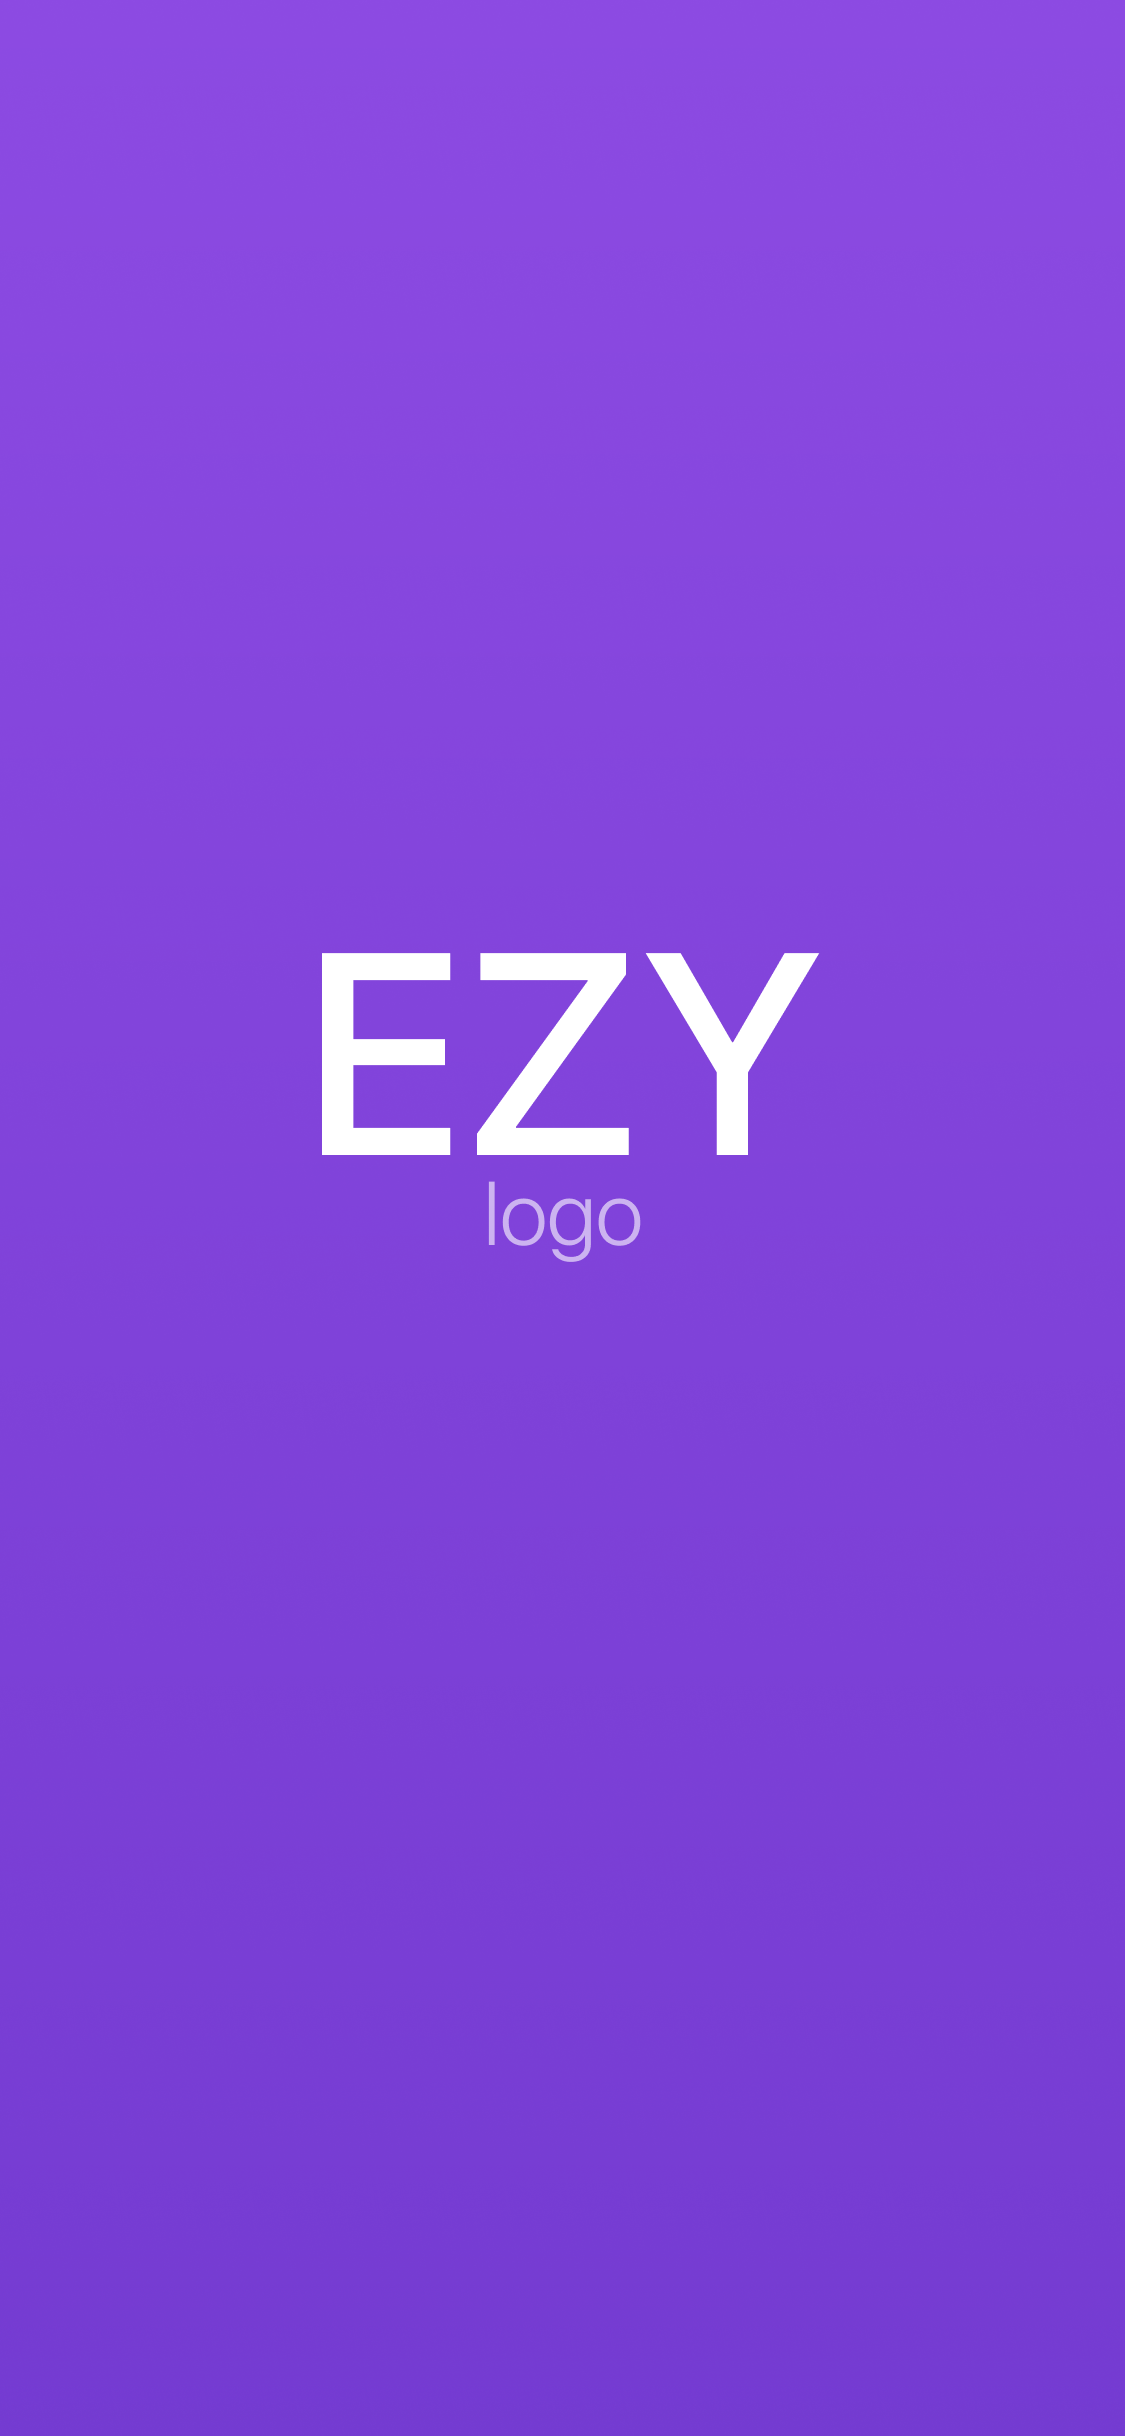
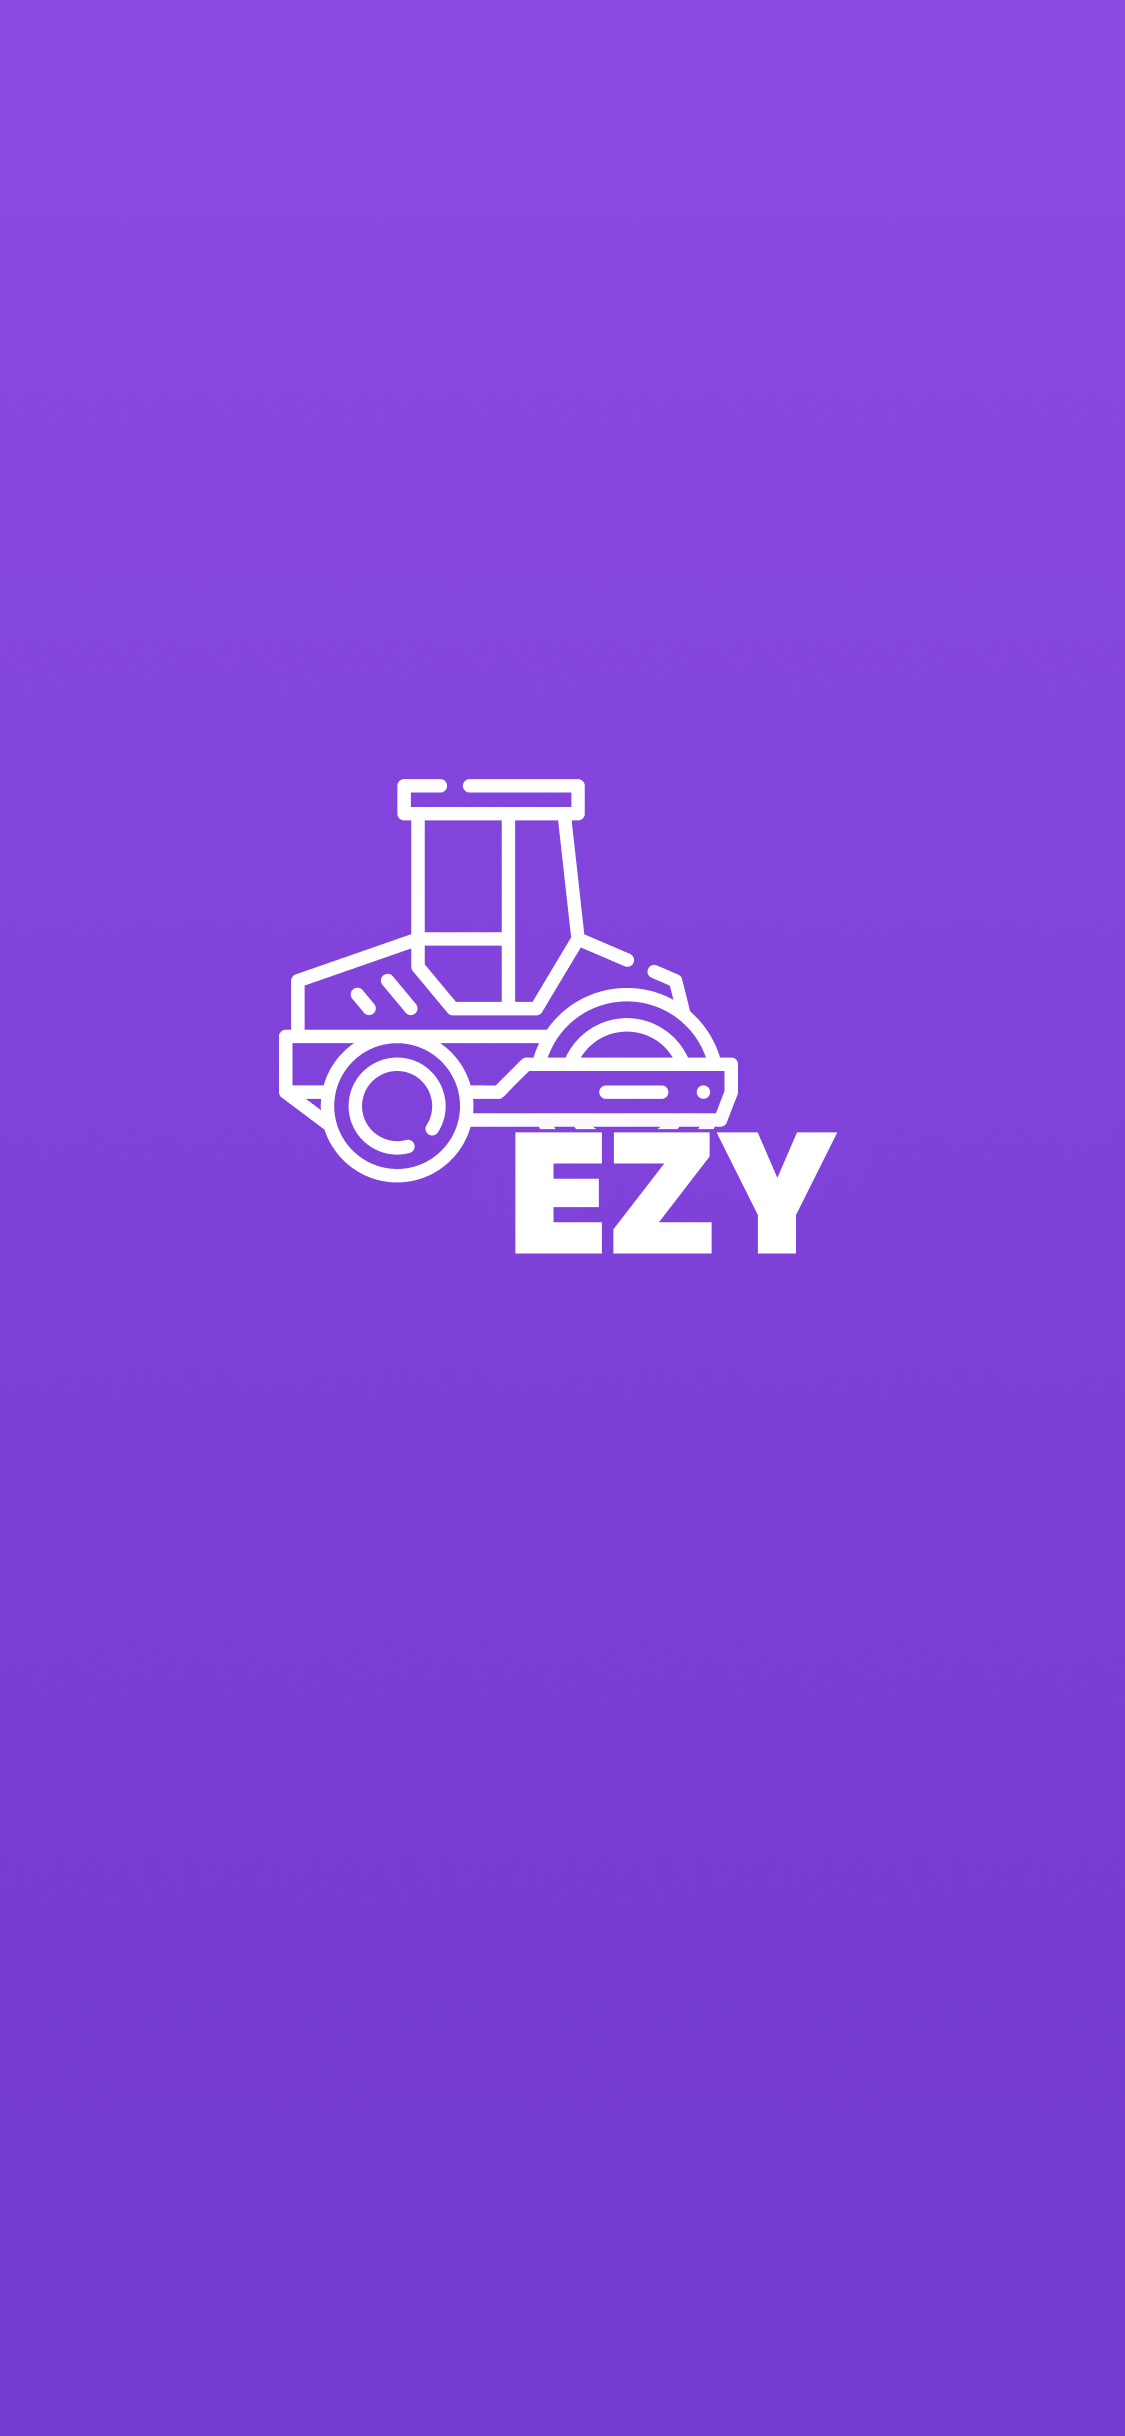
welcome screen added

Changed region(s): [[0.2489, 0.312, 0.7467, 0.5304]]

diff --git a/lib/main.dart b/lib/main.dart
@@ -1,12 +1,6 @@
-import 'package:ezy_app/core_data/ui/common_widgets/drawer_widget.dart';
-import 'package:ezy_app/core_data/ui/theme/app_colors.dart';
 import 'package:flutter/material.dart';
-import 'package:flutter/src/widgets/framework.dart';
-import 'package:pin_code_fields/pin_code_fields.dart';
 
-import 'core_data/ui/common_widgets/back_gorund_widget.dart';
-import 'core_data/ui/common_widgets/custom_textfield_widget.dart';
-import 'core_data/ui/common_widgets/driver_drawer_widget.dart';
+import 'features/welcome_screen/welcome_screen.dart';
 
 void main(List<String> args) {
   runApp(const MyApp());
@@ -19,90 +13,7 @@ class MyApp extends StatelessWidget {
   Widget build(BuildContext context) {
     return MaterialApp(
       theme: ThemeData(fontFamily: 'SFProDisplay'),
-      home: const HomePage(),
-    );
-  }
-}
-
-class HomePage extends StatefulWidget {
-  const HomePage({Key? key}) : super(key: key);
-
-  @override
-  State<HomePage> createState() => _HomePageState();
-}
-
-class _HomePageState extends State<HomePage> {
-  TextEditingController textEditingController = TextEditingController();
-  String currentText = "";
-
-  @override
-  Widget build(BuildContext context) {
-    return Scaffold(
-      resizeToAvoidBottomInset: false,
-      drawer: 
-      // DrawerWidget(),
-       DriverDrawerWidget(),
-      appBar: AppBar(
-        // title: const Text('KindaCode'),
-      ),
-      body: BackGroundWidget(
-        child: Center(
-          child: Padding(
-            padding: const EdgeInsets.all(16.0),
-            child: Column(
-              mainAxisAlignment: MainAxisAlignment.center,
-              children:  [
-                TextFieldWidget(
-                  label: 'Имя',
-                ),
-                // CircleAvatarWidget(),
-               
-              ],
-            ),
-          ),
-        ),
-      ),
-      // body: Padding(
-      //   padding: const EdgeInsets.all(30),
-      //   child: Center(
-      //     child: PinCodeTextField(
-      //       keyboardType: TextInputType.number,
-      //       length: 4,
-      //       obscureText: false,
-      //       animationType: AnimationType.fade,
-      //       pinTheme: PinTheme(
-      //         activeColor: AppColors.pinTextFieldBorderColor,
-      //         inactiveColor: AppColors.pinTextFieldBorderColor,
-      //         selectedColor: AppColors.pinTextFieldBorderColor,
-      //         borderWidth: 1,
-      //         shape: PinCodeFieldShape.box,
-      //         borderRadius: BorderRadius.circular(10),
-      //         fieldHeight: 66,
-      //         fieldWidth: 66,
-      //         inactiveFillColor: AppColors.white,
-      //         selectedFillColor: AppColors.white,
-      //         activeFillColor: AppColors.white,
-      //       ),
-      //       animationDuration: const Duration(milliseconds: 300),
-      //       backgroundColor: AppColors.lightGrey,
-      //       enableActiveFill: true,
-      //       controller: textEditingController,
-      //       onCompleted: (v) {
-      //         debugPrint("Completed");
-      //       },
-      //       onChanged: (value) {
-      //         debugPrint(value);
-      //         setState(() {
-      //           currentText = value;
-      //         });
-      //       },
-      //       beforeTextPaste: (text) {
-      //         return true;
-      //       },
-      //       appContext: context,
-      //     ),
-      //   ),
-      // ),
+      home: const WelcomeScreen(),
     );
   }
 }

diff --git a/lib/features/welcome_screen/welcome_screen.dart b/lib/features/welcome_screen/welcome_screen.dart
@@ -1,0 +1,73 @@
+import 'package:ezy_app/core_data/ui/common_widgets/app_button.dart';
+import 'package:ezy_app/core_data/ui/common_widgets/back_gorund_widget.dart';
+import 'package:ezy_app/core_data/ui/common_widgets/custom_sliding_toggle.dart';
+import 'package:ezy_app/core_data/ui/theme/app_colors.dart';
+import 'package:ezy_app/core_data/ui/theme/app_fonts.dart';
+import 'package:ezy_app/features/customers_screen/registration_screen/registration_screen.dart';
+import 'package:ezy_app/resources/resources.dart';
+import 'package:flutter/material.dart';
+import 'package:flutter/src/widgets/framework.dart';
+import 'package:flutter/src/widgets/placeholder.dart';
+
+class WelcomeScreen extends StatelessWidget {
+  const WelcomeScreen({super.key});
+
+  @override
+  Widget build(BuildContext context) {
+    return Scaffold(
+      body: BackGroundWidget(
+        child: Padding(
+          padding: const EdgeInsets.all(16.0),
+          child: Column(
+            mainAxisAlignment: MainAxisAlignment.center,
+            children: [
+              CustomSlidingToggle(
+                leftLabel: 'Заказчик',
+                rightLabel: 'Исполнитель',
+                onChange: (val) {},
+              ),
+              const SizedBox(height: 100),
+              Image.asset(Images.logo, height: 150),
+              const SizedBox(height: 111),
+              Text(
+                'Добро пожаловать!',
+                style: AppFonts.w700s30.copyWith(color: AppColors.white),
+              ),
+              const SizedBox(height: 20),
+              Text(
+                'Приветствуем вас на площадке аренды \nстроительной техники',
+                style: AppFonts.w400s16.copyWith(
+                  color: AppColors.white,
+                ),
+                textAlign: TextAlign.center,
+              ),
+              const SizedBox(height: 75),
+              AppButton(
+                title: 'Регистрация',
+                onPressed: () {
+                  Navigator.push(
+                    context,
+                    MaterialPageRoute(
+                      builder: (context) => const CustomersRegistrationScreen(),
+                    ),
+                  );
+                },
+              ),
+              const SizedBox(height: 25),
+              TextButton(
+                onPressed: () {},
+                child: Text(
+                  'У меня уже есть аккаунт',
+                  style: AppFonts.w400s16.copyWith(
+                    color: AppColors.white,
+                  ),
+                ),
+              ),
+              const SizedBox(height: 100)
+            ],
+          ),
+        ),
+      ),
+    );
+  }
+}

diff --git a/lib/features/customers_screen/registration_screen/registration_screen.dart b/lib/features/customers_screen/registration_screen/registration_screen.dart
@@ -1,0 +1,26 @@
+import 'package:ezy_app/core_data/ui/common_widgets/back_gorund_widget.dart';
+import 'package:flutter/material.dart';
+import 'package:flutter/src/widgets/framework.dart';
+import 'package:flutter/src/widgets/placeholder.dart';
+
+class CustomersRegistrationScreen extends StatelessWidget {
+  const CustomersRegistrationScreen({super.key});
+
+  @override
+  Widget build(BuildContext context) {
+    return Scaffold(
+      body: BackGroundWidget(
+        child: Padding(
+          padding: const EdgeInsets.all(16.0),
+          child: Column(
+            children: [
+              Row(
+                children: [],
+              )
+            ],
+          ),
+        ),
+      ),
+    );
+  }
+}

diff --git a/lib/core_data/ui/common_widgets/back_gorund_widget.dart b/lib/core_data/ui/common_widgets/back_gorund_widget.dart
@@ -13,6 +13,7 @@ class BackGroundWidget extends StatelessWidget {
   @override
   Widget build(BuildContext context) {
     return Container(
+      width: double.infinity,
       height: MediaQuery.of(context).size.height,
       decoration: const BoxDecoration(
         gradient: LinearGradient(

diff --git a/lib/core_data/ui/theme/app_fonts.dart b/lib/core_data/ui/theme/app_fonts.dart
@@ -1,6 +1,10 @@
 import 'package:flutter/material.dart';
 
 abstract class AppFonts {
+  static const TextStyle w700s30 = TextStyle(
+    fontSize: 30,
+    fontWeight: FontWeight.w700,
+  );
   static const TextStyle w700s18 = TextStyle(
     fontSize: 18,
     fontWeight: FontWeight.w700,

diff --git a/lib/resources/images.dart b/lib/resources/images.dart
@@ -7,4 +7,5 @@ class Images {
   static const String bg = 'assets/images/bg.png';
   static const String icons = 'assets/images/icons.png';
   static const String list = 'assets/images/list.png';
+  static const String logo = 'assets/images/logo.png';
 }

diff --git a/test/images_test.dart b/test/images_test.dart
@@ -9,5 +9,6 @@ void main() {
     expect(File(Images.bg).existsSync(), true);
     expect(File(Images.icons).existsSync(), true);
     expect(File(Images.list).existsSync(), true);
+    expect(File(Images.logo).existsSync(), true);
   });
 }
